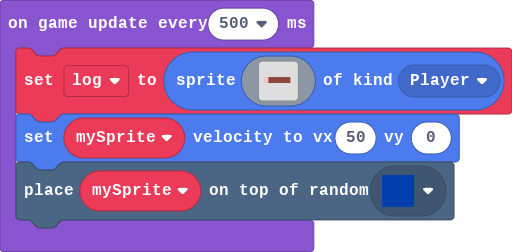
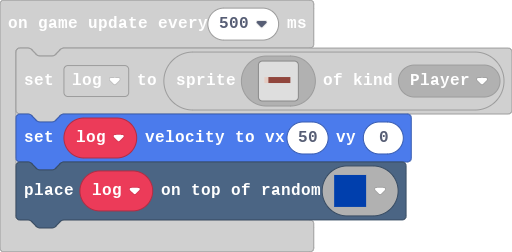
Update main.blocks, main.ts

diff --git a/main.ts b/main.ts
@@ -158,6 +158,6 @@ game.onUpdateInterval(500, function () {
         . . . . . . . . . . . . . . . . 
         . . . . . . . . . . . . . . . . 
         `, SpriteKind.Player)
-    mySprite.setVelocity(50, 0)
-    tiles.placeOnRandomTile(mySprite, assets.tile`myTile10`)
+    log.setVelocity(50, 0)
+    tiles.placeOnRandomTile(log, assets.tile`myTile10`)
 })
